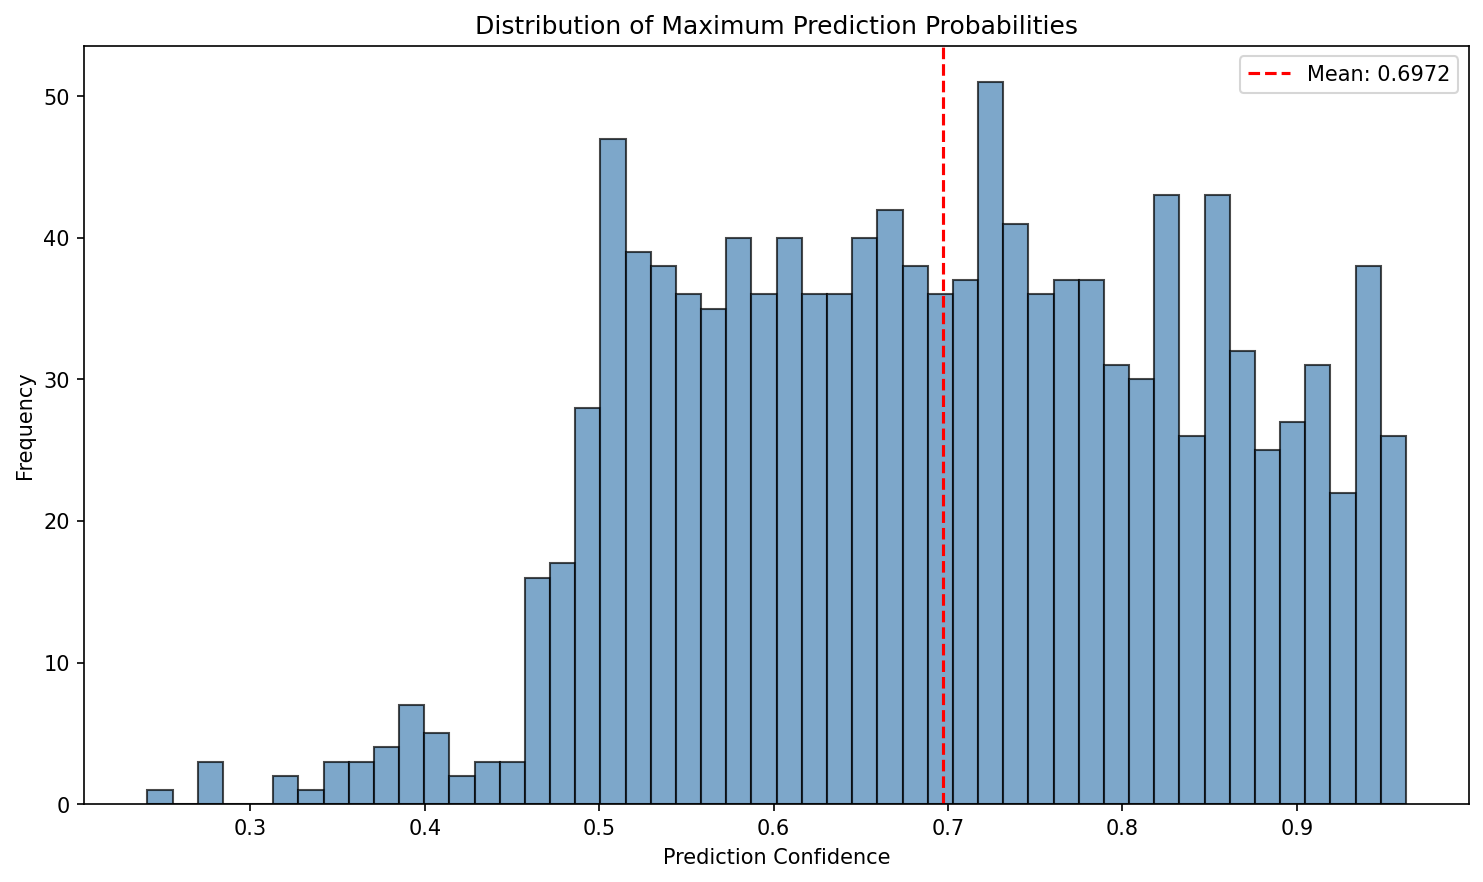
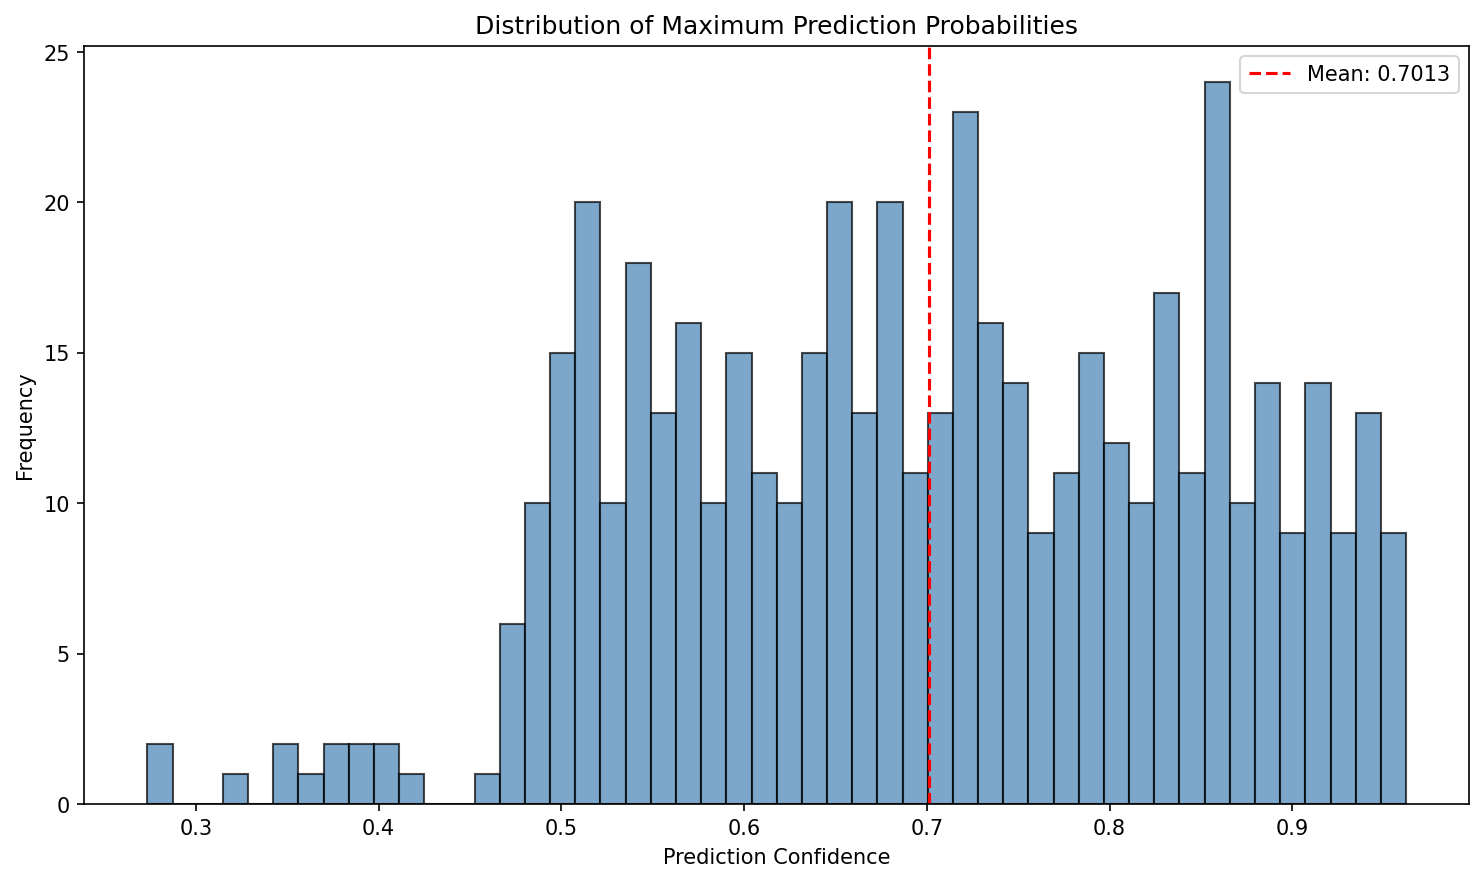
added input from user feature

diff --git a/test.py b/test.py
@@ -37,11 +37,37 @@ test['long_text'] = test['long_text'].astype(str).apply(clean_text)
 test['short_text'] = test['short_text'].astype(str).apply(clean_text)
 test['rating']=test['rating'].astype(int)-1
 
-#code to get 100000 samples from test with equal no. of classes
+# Ask user how many samples per class they'd like to test with (default 250)
+default_per_class = 250
+try:
+    user_input = input(f"Enter number of samples per class to test (default {default_per_class}): ").strip()
+    if user_input == "":
+        n_per_class = default_per_class
+    else:
+        n_per_class = int(user_input)
+        if n_per_class <= 0:
+            print(f"Provided number <= 0; using default {default_per_class} instead.")
+            n_per_class = default_per_class
+except Exception as e:
+    print(f"Invalid input ({e}); using default {default_per_class}.")
+    n_per_class = default_per_class
+
 df_list = []
 for i in range(5):
-    df_class = test[test['rating'] == i].sample(n=250, random_state=42)
+    class_df = test[test['rating'] == i]
+    available = len(class_df)
+    if available == 0:
+        print(f"Warning: no samples found for class {i}.")
+        continue
+    take_n = min(n_per_class, available)
+    if take_n < n_per_class:
+        print(f"Warning: requested {n_per_class} samples for class {i}, but only {available} available. Using {take_n}.")
+    df_class = class_df.sample(n=take_n, random_state=42)
     df_list.append(df_class)
+
+if len(df_list) == 0:
+    raise RuntimeError("No test samples available after sampling. Check your `test.csv` and labels.")
+
 balanced_test = pd.concat(df_list).reset_index(drop=True)
 
 # ============================================================================
